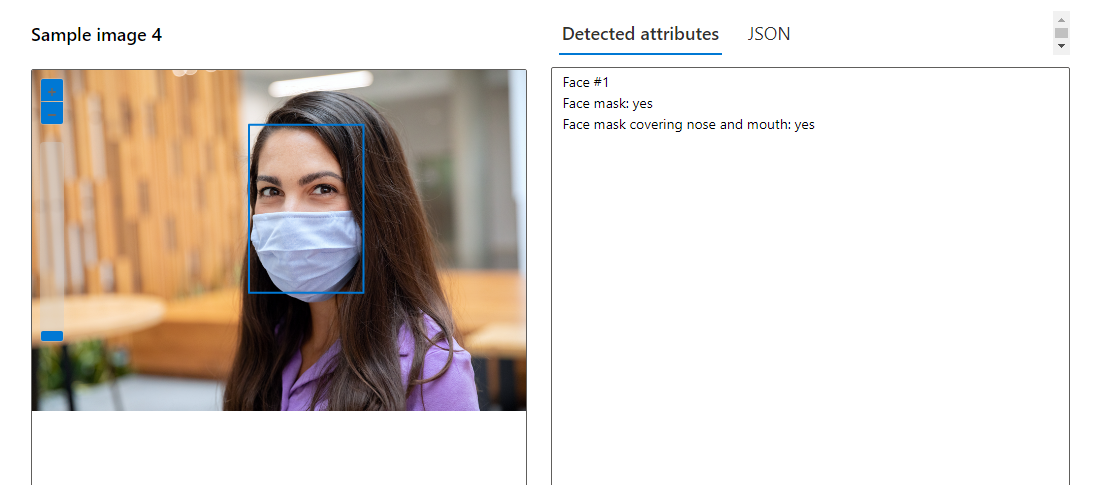
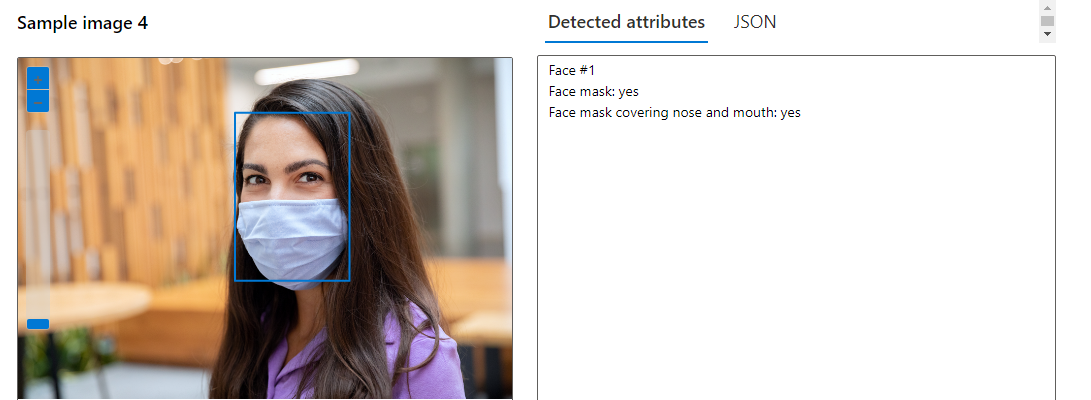
Ajustes

diff --git a/desafio02/README.md b/desafio02/README.md
@@ -17,7 +17,9 @@ Através desse recurso, a IA identifica rostos contidos na imagem e os numera.
 No meu caso, fiz o upload e minha face foi reconhecida:
 <img align="right" src="./outputs/retornoAnalise.png" width=""/> 
 
-...
+Após ser processado, o rosto foi detectado:
+
+<img align="right" src="./outputs/retornoAnalise.PNG" width=""/> 
 
 ## Add captions to images
 Com esse recurso, a IA adiciona descrição às imagens adicionadas.
@@ -25,9 +27,8 @@ Com esse recurso, a IA adiciona descrição às imagens adicionadas.
 01 - Dentro do Vision Studio, na guia *Image analysis* clique na opção *Add captions to images*:
 <img align="right" src="./imagens/imagem2.PNG" width=""/> 
 
-
-02 - Você pode usar as imagens disponíveis para teste ou fazer upload da sua própria imagem. Utilizei a mesma imagem usada para fazer a detecção de faces, e a imagem foi descrita,:
-<img align="right" src="./outputs/retornoAnaliseDescricao.PNG" width=""/> 
+02 - Você pode usar as imagens disponíveis para teste ou fazer upload da sua própria imagem. Utilizei a mesma imagem usada para fazer a detecção de faces, e a imagem foi descrita:
+<img align="right" src="./outputs/retornoAnalise.PNG" width=""/> 
 
 ## Conclusão de aprendizagem
 
